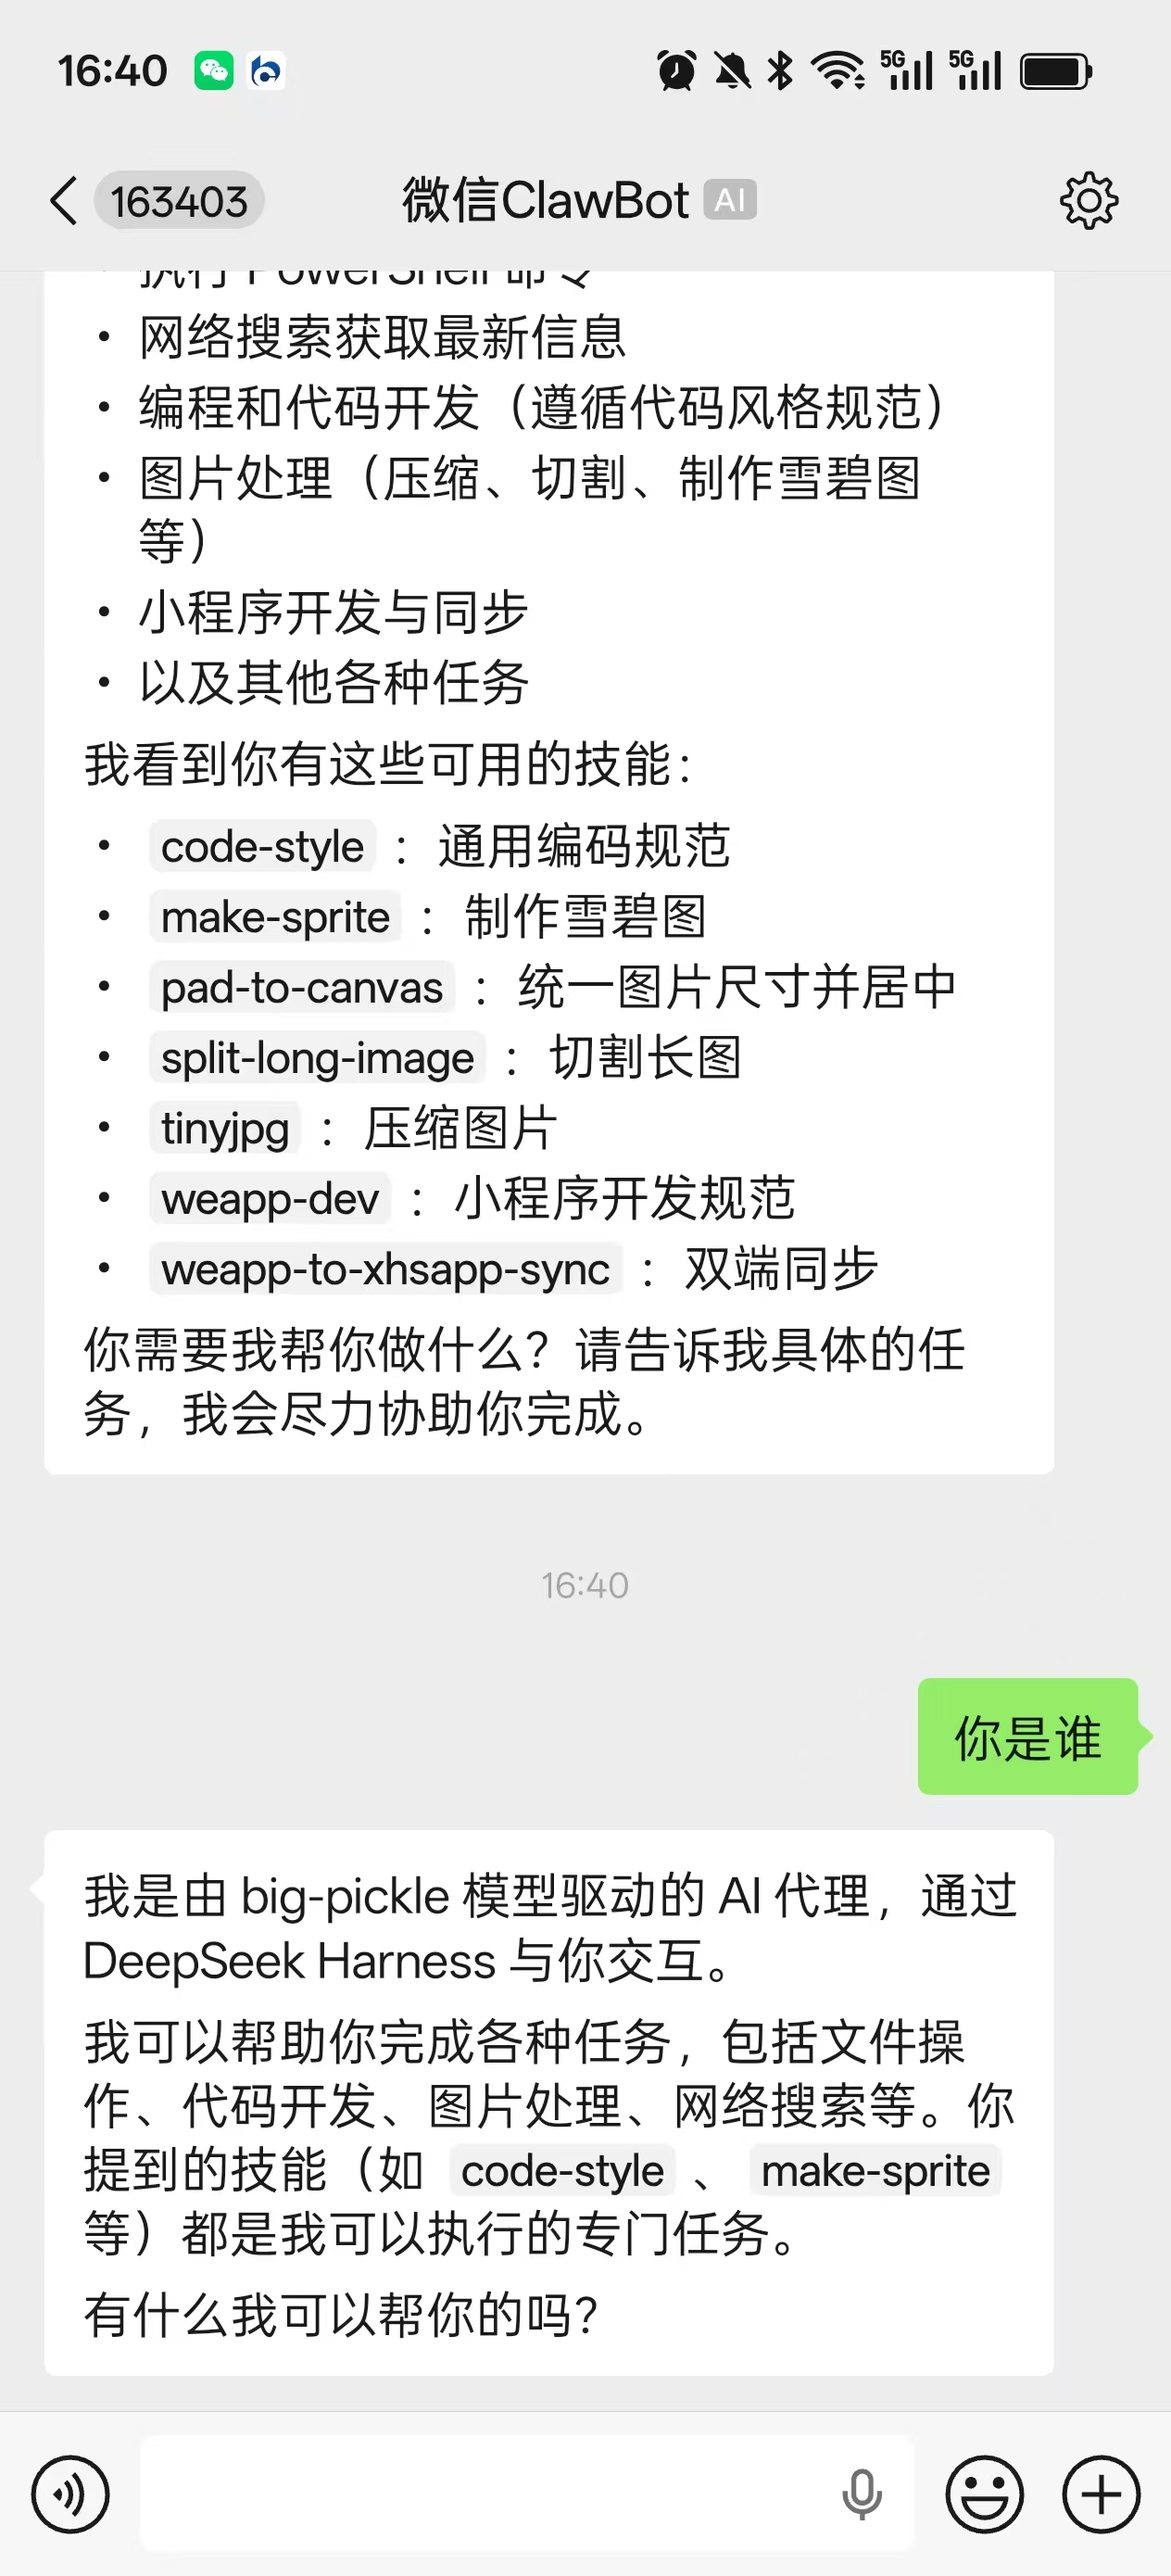
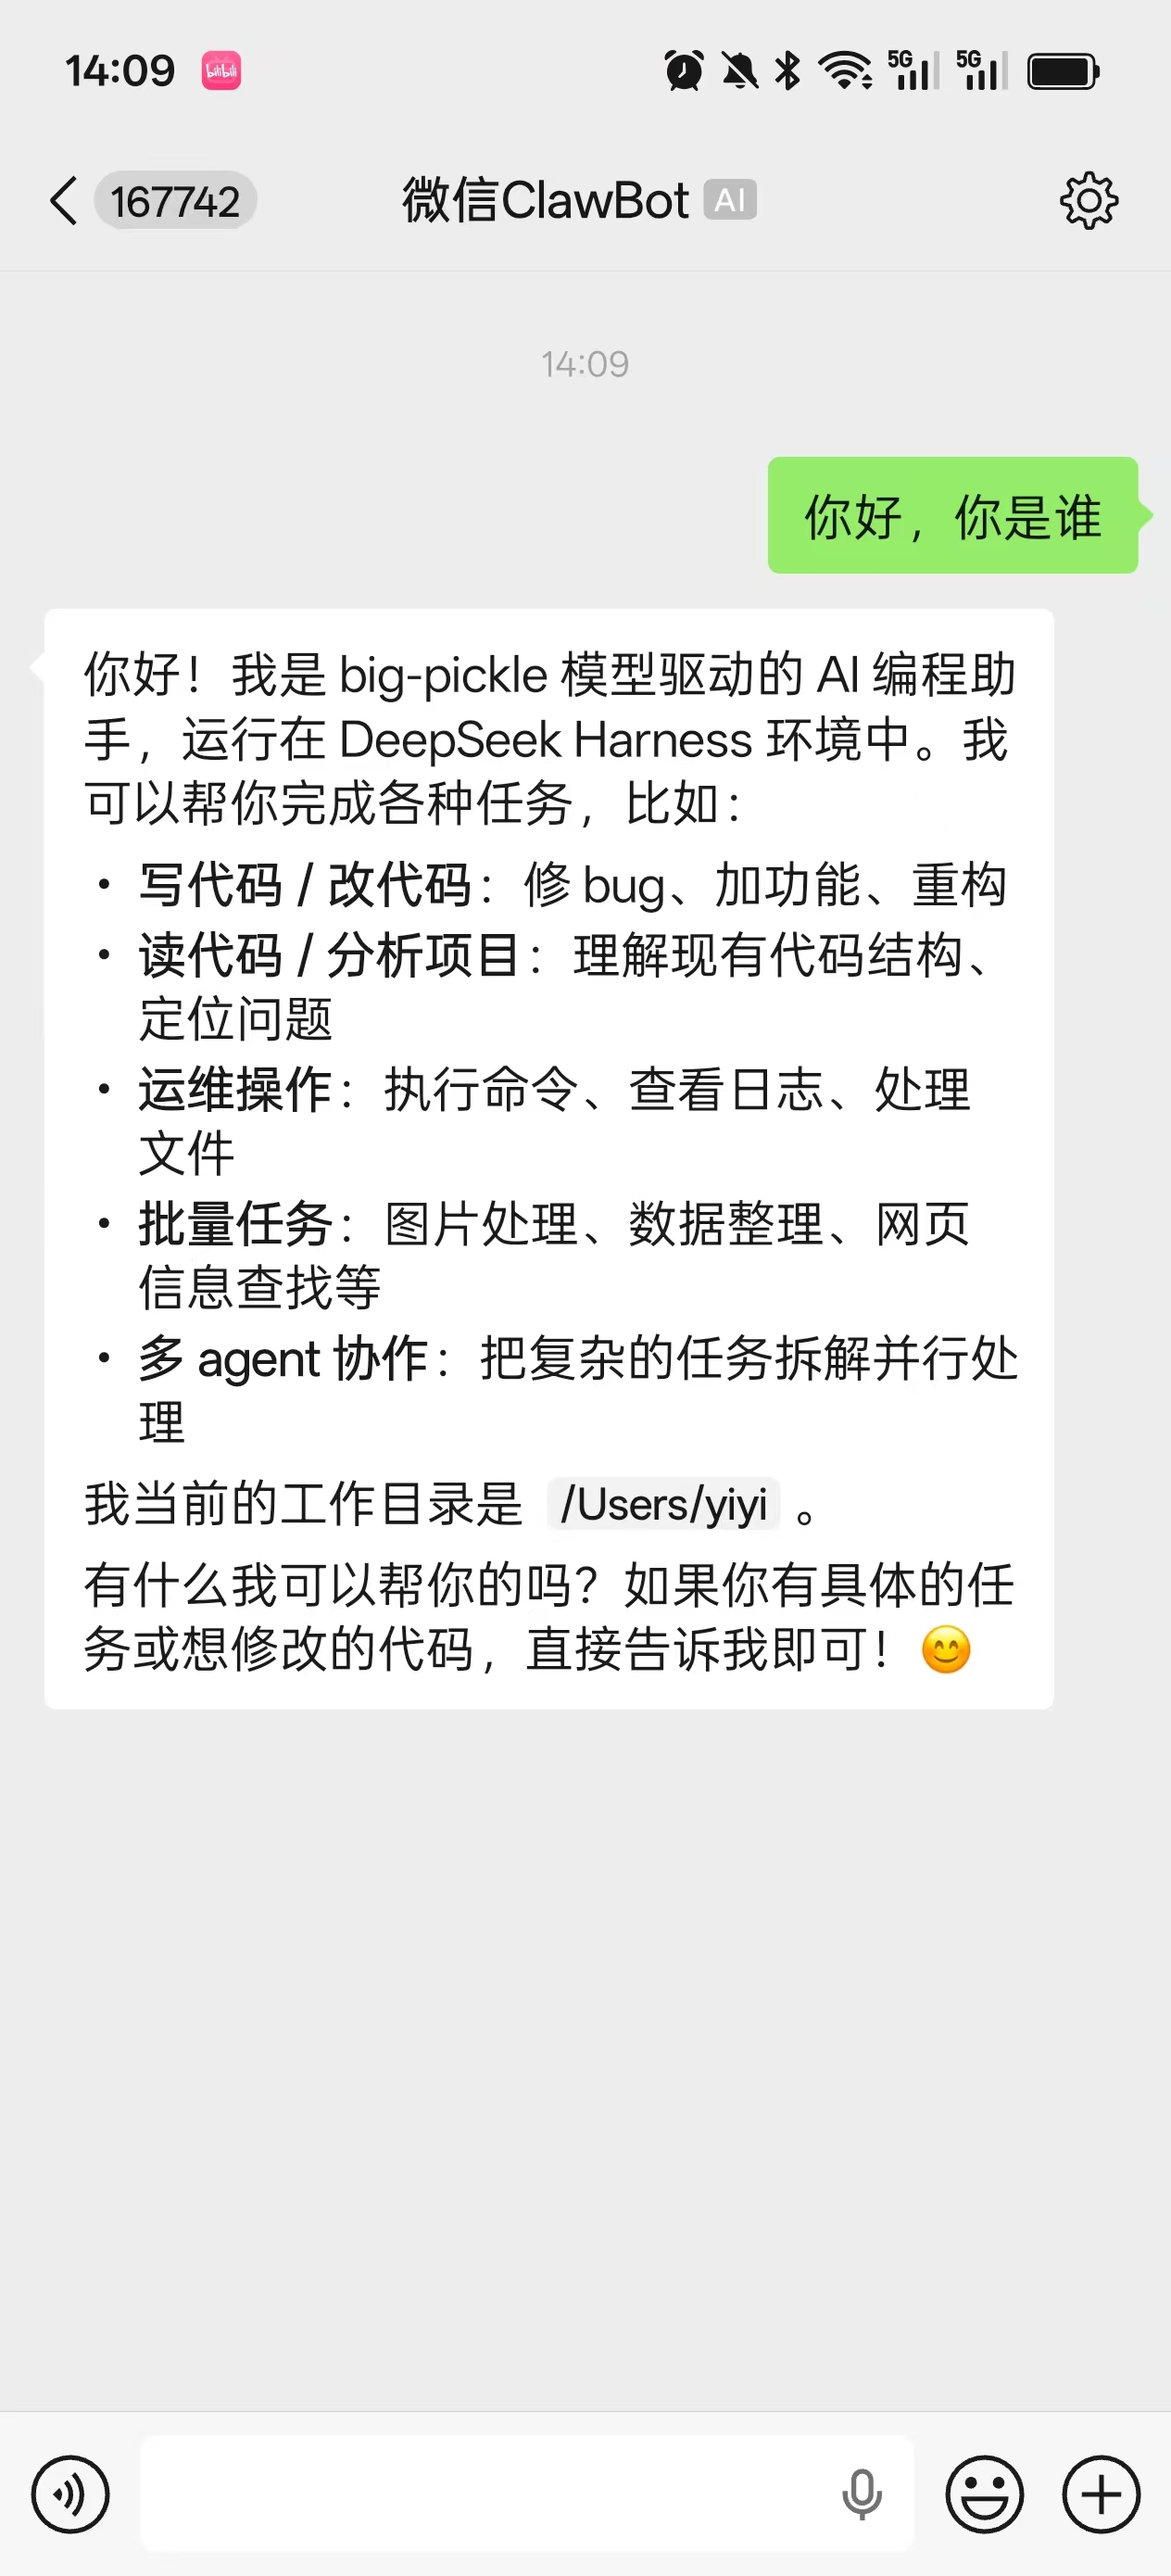
chore: prepare 0.2.0 release (new screenshots, simplified README, drop .github and assets from npm package)

diff --git a/README.md b/README.md
@@ -1,18 +1,52 @@
 # dsh-plugin-clawbot
 
-> 本项目代码由 AI 编写，在使用时请自行检测代码逻辑。
-
 DSH（DeepSeek Harness）的**微信 ClawBot 通道插件** —— 与微信 ClawBot
 （`@tencent-weixin/openclaw-weixin` 协议）双向通信，并支持**扫码登录 / 重新绑定账号**。
-管理面板已集成进 DSH Web **设置界面**的左侧菜单（「微信 ClawBot」），不再是独立页面。
+管理面板已集成进 DSH Web **设置界面**的左侧菜单（「微信 ClawBot」）。
 
-- 每个微信联系人 / 群拥有一个独立、确定性的 DSH 会话（`clawbot-<sha1>`）
 - 收到微信消息 → 写入对应 DSH 会话 → 等待智能体回复 → 回发微信
 - 微信凭据自动从 ClawBot 账号库（`~/.openclaw/openclaw-weixin`）发现，
   与 OpenClaw 通道共用账号，互不覆盖游标
 - 管理面板位于 DSH 设置 → 「微信 ClawBot」：查看状态、扫码绑定、重新登录、解绑账号、运行日志
 - token 过期（errcode=-14）时通道自动暂停，在面板重新扫码即可
 - 面板样式跟随 DSH 主题（浅色 / 深色自适应）
+
+## 安装（DSH 插件方式）
+
+插件已发布到 **npm**，直接安装包名即可：
+
+```bash
+dsh plugin --profile web add dsh-plugin-clawbot
+```
+
+安装后即可用（插件自带的 `cordis.patch.yml` 作为 bundle 层会自动激活 clawbot 行）。
+
+然后重启：
+
+```bash
+dsh web
+```
+
+重启后：
+
+- 打开 DSH Web 设置界面 → 左侧菜单出现 **「微信 ClawBot」**
+- 首次使用：点开面板 → 「扫码绑定 / 重新登录」→ 手机微信扫码 → 自动生效
+- 已绑定账号时重启自动复用，无需重新扫码
+- 微信 token 过期后通道暂停，在面板重新扫码即可
+
+## 运行截图
+
+管理面板位于 DSH 设置 → 「微信 ClawBot」，浅色 / 深色主题自适应：
+
+<img src="assets/settings-panel.png" width="100%" alt="微信 ClawBot 设置面板">
+
+<img src="assets/wechat-screenshot.jpg" width="320" alt="微信侧聊天界面：收到智能体回复">
+
+## 消息命令
+
+- `/new`、`/reset` — 为当前联系人开启全新会话
+- `/help` — 帮助
+- 其他文本 → 发送给 DSH 智能体
 
 ## 结构
 
@@ -49,75 +83,6 @@ npm run build      # esbuild 编译 Host + tsdown 打包客户端
 > 从 GitHub 克隆下来的源码不含构建产物（`lib/`、`client/` 已忽略），
 > 构建后才能作为插件加载。
 
-## 安装（DSH 插件方式）
-
-插件已发布到 **npm**，直接安装包名即可：
-
-```bash
-dsh plugin --profile web add dsh-plugin-clawbot
-```
-
-> 也可以从 GitHub 的 **Release** 页面下载安装包：`dsh plugin --profile web add file:C:/path/to/dsh-plugin-clawbot-0.1.0.tgz`
-
-安装后即可用（插件自带的 `cordis.patch.yml` 作为 bundle 层会自动激活 clawbot 行）。
-
-如需覆盖默认配置，编辑 `<你的用户目录>\.dsh\profiles\web\cordis.patch.yml`，
-**按 `id` 覆盖**（不要再次 `insert`，会报 `duplicate loader entry id`）：
-
-```yaml
-- id: clawbot
-  name: 'dsh-plugin-clawbot'
-  config:
-    dsh:
-      baseUrl: 'http://127.0.0.1:3080'
-      cwd: 'C:\\work'
-```
-
-> 原理：patch 按 `id` 命中已有行并**整体替换其 `config`**（非深度合并），
-> profile 的 user patch 在 bundle 层之后应用，后应用者胜出。
-> 验证可用 `dsh --profile web --dump-config`，会显示
-> `# == dsh-plugin-clawbot, patched by ...\cordis.patch.yml`。
-
-然后重启：
-
-```bash
-dsh web
-```
-
-重启后：
-
-- 打开 DSH Web 设置界面 → 左侧菜单出现 **「微信 ClawBot」**
-- 首次使用：点开面板 → 「扫码绑定 / 重新登录」→ 手机微信扫码 → 自动生效
-- 已绑定账号时重启自动复用，无需重新扫码
-- 微信 token 过期后通道暂停，在面板重新扫码即可
-
-## 运行截图
-
-管理面板位于 DSH 设置 → 「微信 ClawBot」，浅色 / 深色主题自适应：
-
-<img src="assets/settings-panel.png" width="100%" alt="微信 ClawBot 设置面板">
-
-<img src="assets/wechat-screenshot.jpg" width="320" alt="微信侧聊天界面：收到智能体回复">
-
-## 配置（全部可选）
-
-| 字段 | 说明 | 默认 |
-| --- | --- | --- |
-| `dsh.baseUrl` | DSH 地址 | `http://127.0.0.1:3080` |
-| `dsh.cwd` | 会话工作目录（每个联系人一个会话） | 当前目录 |
-| `dsh.agentPreset` | 会话使用的 agent preset | 默认 |
-| `weixin.accountId` | 显式指定 ClawBot 账号 | 自动发现最新账号 |
-| `weixin.token` | 显式指定 token（优先于账号库） | 账号库 |
-| `weixin.allowFrom` | 仅允许这些微信用户发消息 | 全部 |
-| `bridge.stateDir` | 游标 / 会话映射 / 上下文 token 状态目录 | `~/.dsh-clawbot` |
-| `bridge.typing` | 回复期间发送"正在输入" | `false` |
-| `bridge.replyTimeoutMs` | 智能体回复超时 | 10 分钟 |
-| `bridge.pollTimeoutMs` | 微信长轮询超时 | 35s |
-
-环境变量：`DSH_BASE_URL` / `DSH_CWD` / `DSH_AGENT_PRESET` /
-`WECHAT_BOT_TOKEN`(或 `CLAWBOT_TOKEN`) / `WECHAT_BASE_URL` / `CLAWBOT_ACCOUNT_ID` /
-`CLAWBOT_ALLOW_FROM` / `CLAWBOT_STATE_DIR`。
-
 ## 后端 HTTP 接口（面板数据源，/clawbot/api/*）
 
 仅供面板及同机调用，仅接受回环 Host（与 DSH /api 信任围栏一致，防 DNS rebinding）：
@@ -129,12 +94,6 @@ dsh web
 - `POST /clawbot/api/login/cancel` — 取消登录
 - `POST /clawbot/api/unbind` — 解绑当前账号
 - `POST /clawbot/api/resume` — 手动恢复通道
-
-## 消息命令
-
-- `/new`、`/reset` — 为当前联系人开启全新会话
-- `/help` — 帮助
-- 其他文本 → 发送给 DSH 智能体
 
 ## 注意事项
 
